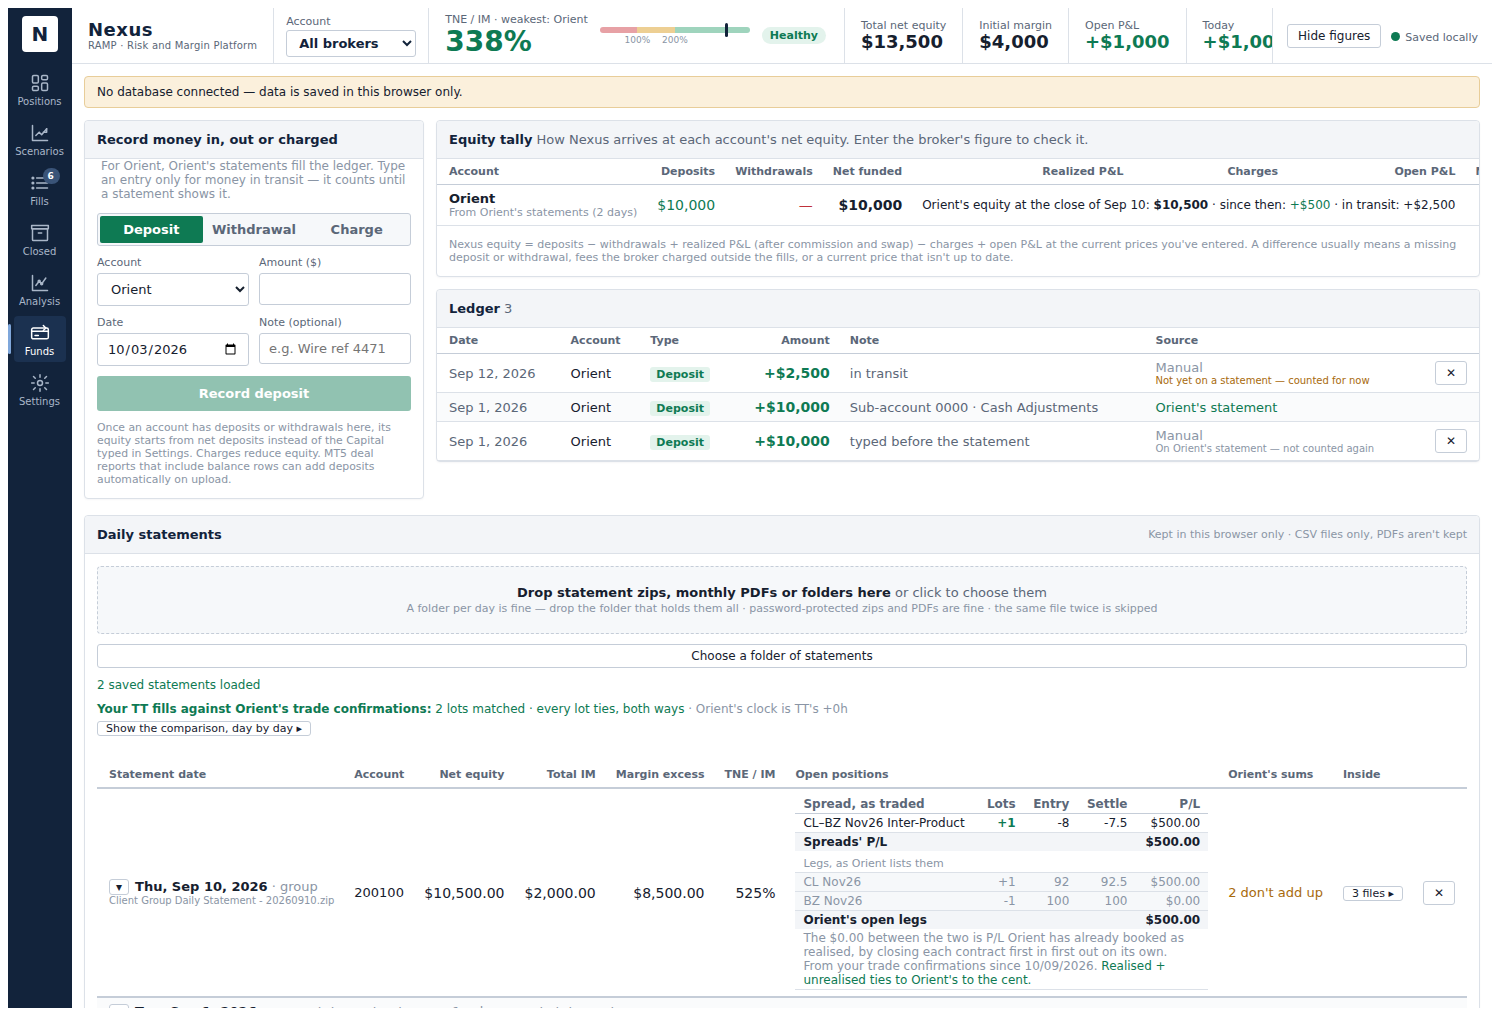
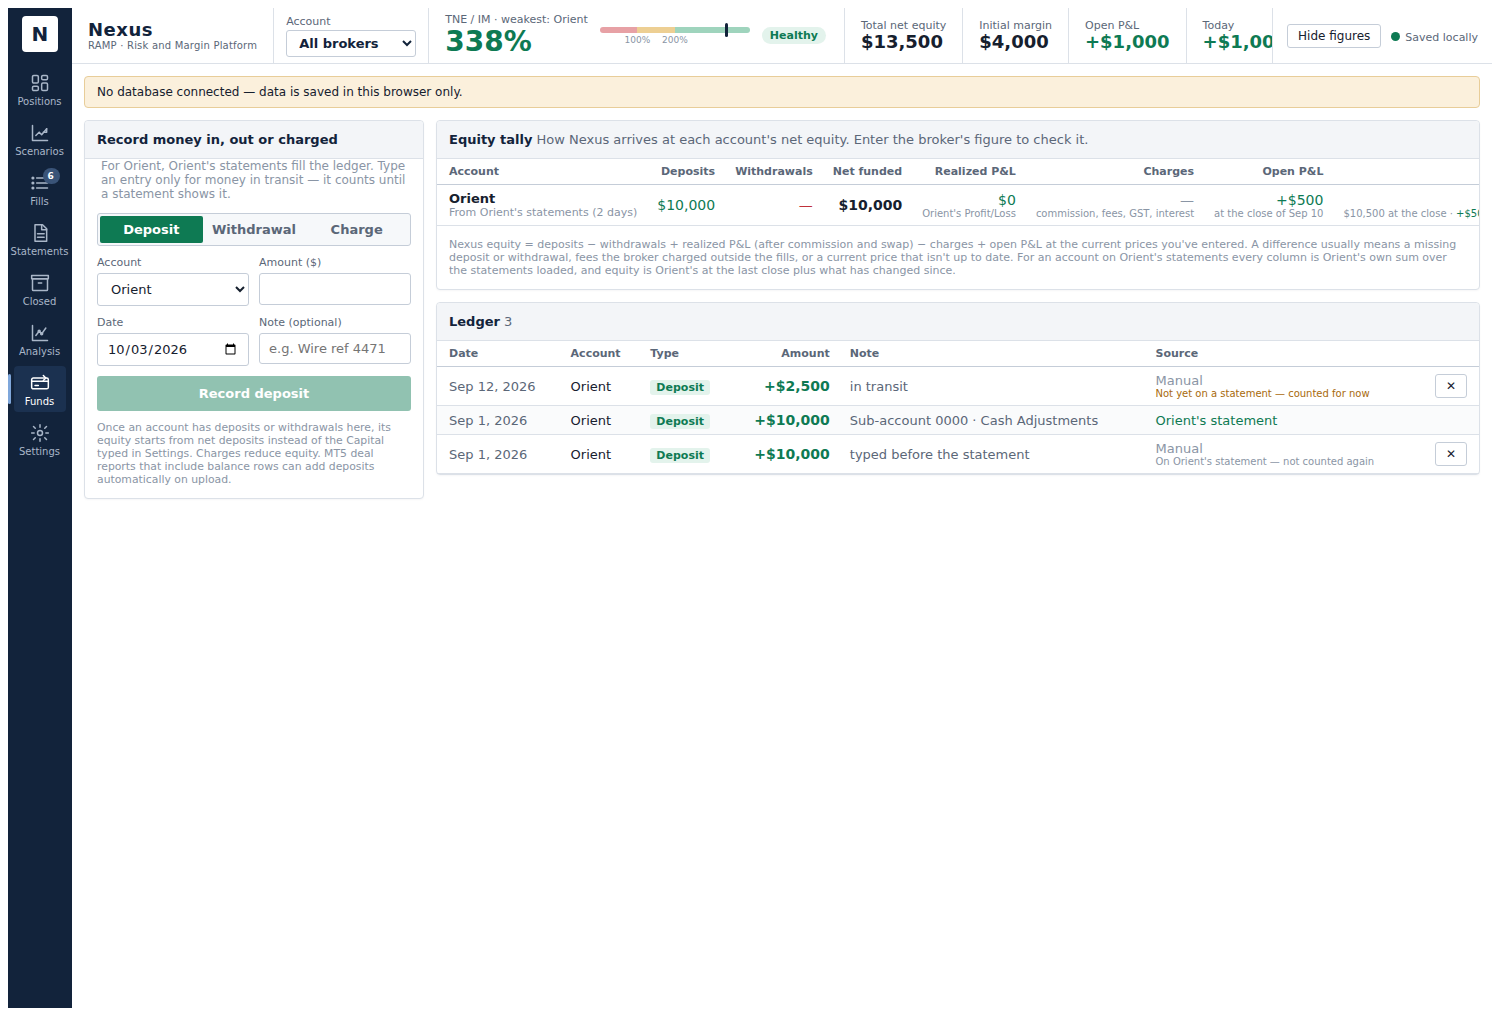
Statements get their own tab, after Fills
Daily zips, month-end PDFs and the TT-fills check move out of Funds into a Statements tab,
titled "Orient statements". Funds keeps the equity tally and the ledger.

Claude-Session: https://claude.ai/code/session_015djcxSFrn9pJNp7giLkLkF

diff --git a/src/App.jsx b/src/App.jsx
@@ -394,6 +394,7 @@ const ICONS = {
   fills: <Icon d={<><path d="M8 6h13M8 12h13M8 18h13" /><circle cx="3.5" cy="6" r="1" /><circle cx="3.5" cy="12" r="1" /><circle cx="3.5" cy="18" r="1" /></>} />,
   closed: <Icon d={<><path d="M3 7h18v13a1 1 0 0 1-1 1H4a1 1 0 0 1-1-1z" /><path d="M2 3h20v4H2zM10 12h4" /></>} />,
   analysis: <Icon d={<><path d="M3 3v18h18" /><path d="M7 15l4-5 3 3 5-7" /><circle cx="11" cy="10" r="1.2" /><circle cx="14" cy="13" r="1.2" /></>} />,
+  statements: <Icon d={<><path d="M6 2h9l5 5v15H6z" /><path d="M14 2v6h6M9 13h8M9 17h8" /></>} />,
   funds: <Icon d={<><rect x="2" y="6" width="20" height="13" rx="2" /><path d="M2 10h20M6 15h4" /><path d="M16 3l3 3-3 3" /></>} />,
   settings: <Icon d={<><circle cx="12" cy="12" r="3" /><path d="M12 2v3M12 19v3M4.2 4.2l2.1 2.1M17.7 17.7l2.1 2.1M2 12h3M19 12h3M4.2 19.8l2.1-2.1M17.7 6.3l2.1-2.1" /></>} />,
 };
@@ -2386,7 +2387,7 @@ function Tracker({ user }) {
   const scaleMax = Math.max(pf.minR * 2, 3, isFinite(ratio) ? Math.min(ratio, pf.minR * 4) : 0);
   const pos = (r) => Math.min(100, Math.max(0, (r / scaleMax) * 100));
   const save = { saved: [isRemote ? "Saved" : "Saved locally", "var(--ok)"], saving: ["Saving…", "var(--warn)"], error: ["Save failed", "var(--bad)"] }[saveState];
-  const nav = [["dash", "Positions"], ["scen", "Scenarios"], ["fills", "Fills", fills.length], ["closed", "Closed", pf.book.closed.length], ["analysis", "Analysis"], ["funds", "Funds"], ["settings", "Settings"]];
+  const nav = [["dash", "Positions"], ["scen", "Scenarios"], ["fills", "Fills", fills.length], ["statements", "Statements"], ["closed", "Closed", pf.book.closed.length], ["analysis", "Analysis"], ["funds", "Funds"], ["settings", "Settings"]];
 
   return (
     <DirtyCtx.Provider value={dirtyApi}>
@@ -2477,9 +2478,10 @@ function Tracker({ user }) {
         {tab === "dash" && <Dashboard pf={pf} settings={settings} view={view} setView={setView} fills={fills} setMark={setMark} addFills={addFills} reloadFills={reloadFills} goFills={() => goTab("fills")} goSettings={() => goTab("settings")} goScen={() => goTab("scen")} />}
         {tab === "scen" && <ScenarioTab pf={pf} settings={settings} setSettings={setSettings} view={view} fills={fills} setScen={setScen} setMark={setMark} />}
         {tab === "fills" && <FillsTab settings={settings} setSettings={setSettings} view={view} fills={fills} addFills={addFills} reloadFills={reloadFills} setBroker={setBroker} />}
+        {tab === "statements" && <StatementsPanel fills={fills} onChanged={reloadStatements} />}
         {tab === "closed" && <ClosedTab pf={pf} settings={settings} setSettings={setSettings} view={view} fills={fills} />}
         {tab === "analysis" && <AnalysisTab pf={pf} settings={settings} setSettings={setSettings} view={view} fills={fills} />}
-        {tab === "funds" && <FundsTab pf={pf} settings={settings} setSettings={setSettings} view={view} fills={fills} onStatements={reloadStatements} />}
+        {tab === "funds" && <FundsTab pf={pf} settings={settings} setSettings={setSettings} view={view} />}
         {tab === "settings" && <SettingsTab settings={settings} setSettings={setSettings} pf={pf} fills={fills} reloadFills={reloadFills} />}
       </main>
     </div>
@@ -4688,8 +4690,8 @@ export function StatementsPanel({ fills = [], onChanged }) {
   const fmtDate = (d) => (d ? new Date(`${d}T12:00:00`).toLocaleDateString(undefined, { weekday: "short", day: "numeric", month: "short", year: "numeric" }) : "Date not in the file name");
 
   return (
-    <section className="panel" style={{ marginTop: 16 }}>
-      <div className="ph"><h2>Daily statements</h2><span className="faint" style={{ fontSize: 11 }}>{isRemote ? "Saved to your RAMP account" : "Kept in this browser only"} · CSV files only, PDFs aren't kept</span></div>
+    <section className="panel">
+      <div className="ph"><h2>Orient statements<span className="dim">Upload each morning's daily zips, and the month-end PDFs. The book's cash, prices and margin come from these.</span></h2><span className="faint" style={{ fontSize: 11 }}>{isRemote ? "Saved to your RAMP account" : "Kept in this browser only"} · CSV files only, PDFs aren't kept</span></div>
       <div className="pb fg">
         <input ref={fileRef} type="file" accept=".zip,.pdf" multiple hidden onChange={(e) => load(e.target.files)} />
         {/* A whole folder, sub-folders included: one folder per day is how statements tend to be saved. */}
@@ -4988,14 +4990,14 @@ export function StatementsPanel({ fills = [], onChanged }) {
             })()}
           </>
         )}
-        <div className="faint" style={{ fontSize: 11 }}>Figures match within ${TOL.toFixed(2)} (a cent either way, for rounding). For reading only for now: RAMP doesn't use these figures yet. Checking them against your book comes next, and will propose changes for you to confirm, never post them.</div>
+        <div className="faint" style={{ fontSize: 11 }}>Figures match within ${TOL.toFixed(2)} (a cent either way, for rounding). The book takes the latest statement's equity, settlement prices, margin and deposits from here.</div>
       </div>
     </section>
   );
 }
 
 // ---------- funds: deposits, withdrawals and equity tally ----------
-function FundsTab({ pf, settings, setSettings, view, fills = [], onStatements }) {
+function FundsTab({ pf, settings, setSettings, view }) {
   const ask = useConfirm();
   const brokers = settings.brokers;
   const today = new Date(); today.setMinutes(today.getMinutes() - today.getTimezoneOffset());
@@ -5184,7 +5186,6 @@ function FundsTab({ pf, settings, setSettings, view, fills = [], onStatements })
         </section>
       </div>
     </div>
-    <StatementsPanel fills={fills} onChanged={onStatements} />
     </>
   );
 }
